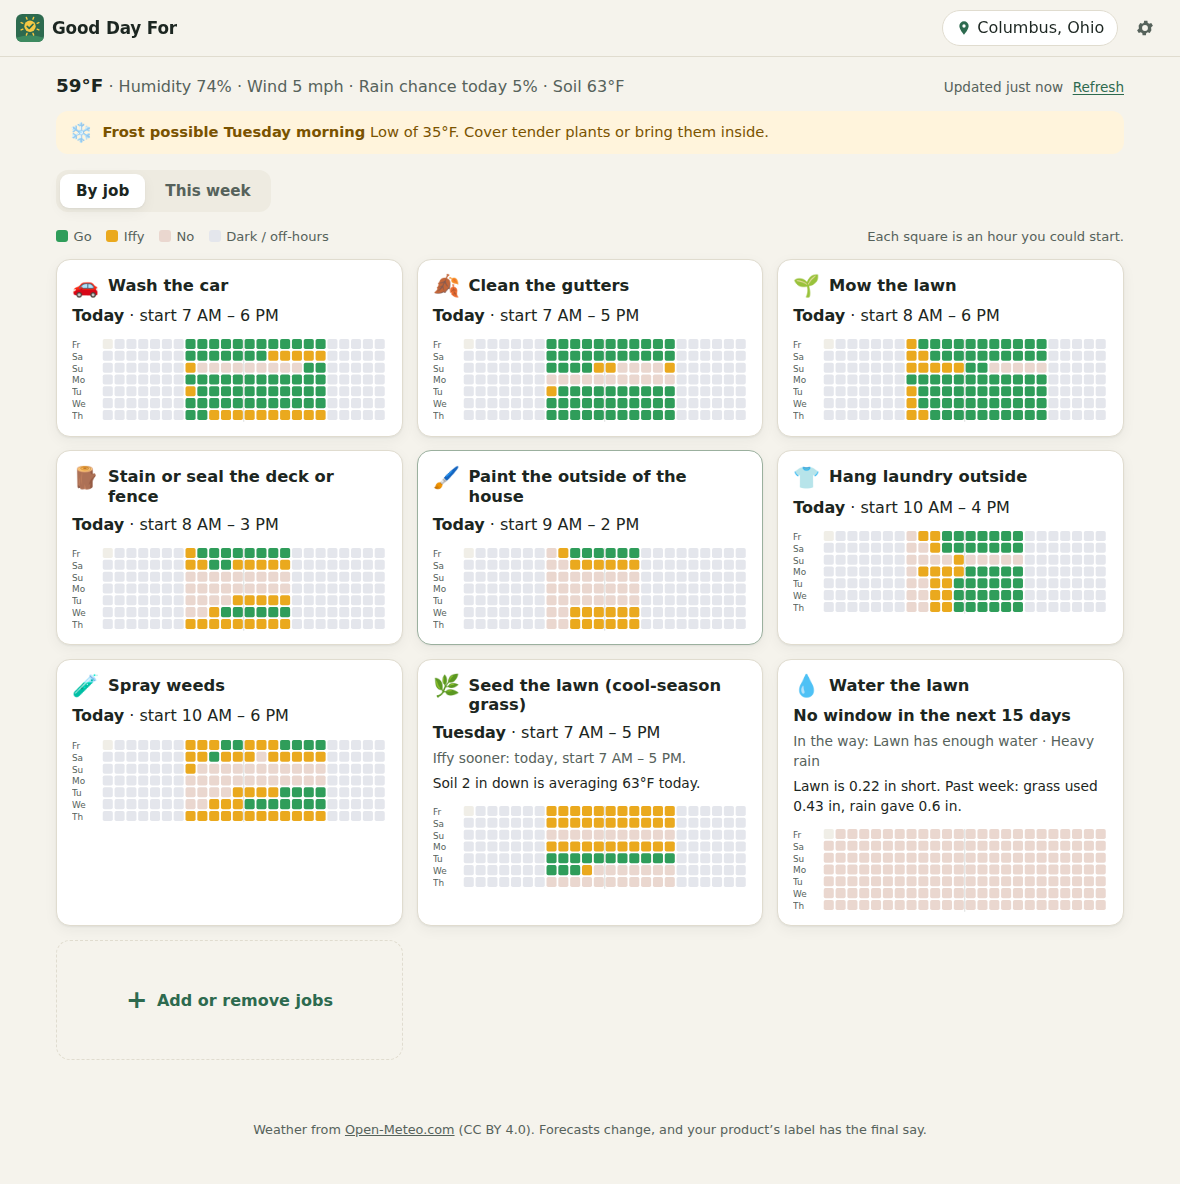
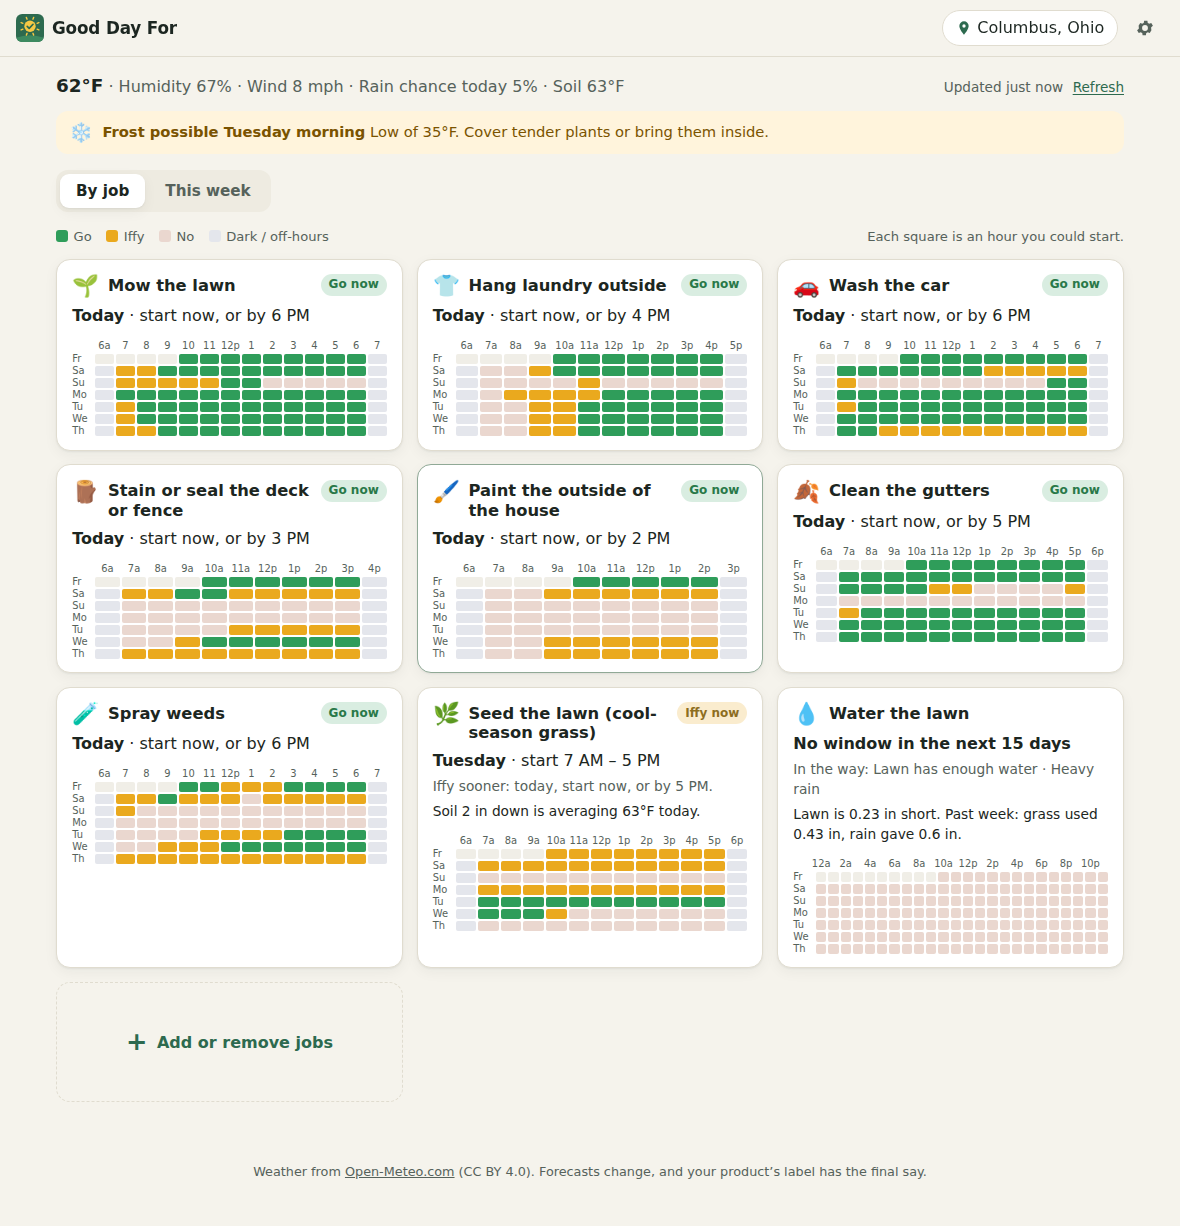
Label the hour squares
Every column in the hour-by-hour grid now says which hour it is, and
the job cards get an hour row too.

- Grids only draw the hours a job could ever start, plus one either
  side, so a daylight job drops the night and its squares get bigger.
  Jobs that can run any time keep all 24 hours.
- Labels pick the densest style that fits without colliding, measured
  after layout: "7 AM", "7a", compact "6a 7 8 … 12p 1", or every 2nd,
  3rd or 6th hour on very narrow grids.
- On the job page the hour row stays pinned under the top bar while
  scrolling through the days, and a note says which hours are shown.
- Browser test checks labels never overlap on desktop, phone and cards.

Claude-Session: https://claude.ai/code/session_01Y2EssY3TZLFak57uq2saM9

diff --git a/js/app.js b/js/app.js
@@ -35,12 +35,6 @@ function h(tag, attrs, ...kids) {
   for (const kid of kids.flat(Infinity)) if (kid != null && kid !== false) el.append(kid instanceof Node ? kid : String(kid));
   return el;
 }
-function s(tag, attrs, ...kids) {
-  const el = document.createElementNS('http://www.w3.org/2000/svg', tag);
-  for (const [k, v] of Object.entries(attrs || {})) if (v != null) el.setAttribute(k, v);
-  for (const kid of kids.flat(Infinity)) if (kid != null) el.append(kid instanceof Node ? kid : String(kid));
-  return el;
-}
 const lower = t => (t ? t[0].toLowerCase() + t.slice(1) : t);
 const persist = () => store.save(state);
 
@@ -130,6 +124,7 @@ function parseRoute() {
 
 function render() {
   fmt = makeFmt(state.units);
+  fitLabels.disconnect();
   const { view, args } = parseRoute();
   renderHeader();
   let node;
@@ -249,20 +244,78 @@ function extraLines(job) {
   return out;
 }
 
+// The hours worth drawing for a job: every hour it could ever start, plus
+// one either side. A daylight job skips the night; an any-time job gets all 24.
+function hourSpan(res) {
+  let lo = 24, hi = -1;
+  for (let i = ctx.i0; i < ctx.n; i++) {
+    const r = res[i];
+    if (r && r.cls !== 'off' && r.cls !== 'unknown') { lo = Math.min(lo, ctx.hour[i]); hi = Math.max(hi, ctx.hour[i]); }
+  }
+  if (hi < 0 || hi - lo >= 20) return [0, 23];
+  return [Math.max(0, lo - 1), Math.min(23, hi + 1)];
+}
+
+// One label per hour column. Which ones show (and long or short) depends on
+// how wide the columns turn out, which fitLabels works out after layout.
+function hourLabels(lo, hi, cls) {
+  const out = [];
+  for (let hr = lo; hr <= hi; hr++) {
+    const d = [2, 3, 6].filter(k => hr % k === 0).map(k => `d${k}`).join(' ');
+    // Compact: bare numbers, with a/p only on the first hour and at noon and midnight.
+    const num = hr === lo || hr % 12 === 0 ? fmt.shortHour(hr) : fmt.h12 ? String(hr % 12) : String(hr);
+    out.push(h('span', { class: `${cls} ${d}` },
+      h('span', { class: 'hl-long' }, fmt.hourOf(hr)),
+      h('span', { class: 'hl-short' }, fmt.shortHour(hr)),
+      h('span', { class: 'hl-num' }, num)));
+  }
+  return out;
+}
+
+// Measures the column pitch and the label text, then picks the densest
+// labelling that doesn't collide: every hour spelled out ("7 AM"), every hour
+// short ("7a"), every hour compact ("6a 7 8 … 12p 1"), or short every 2, 3 or 6.
+const measure = document.createElement('canvas').getContext('2d');
+const fitLabels = new ResizeObserver(entries => {
+  for (const { target: el } of entries) {
+    const heads = [...el.querySelectorAll('.g-h, .m-h')];
+    if (heads.length < 2) { el.dataset.fit = '1'; continue; }
+    const pitch = heads[1].getBoundingClientRect().left - heads[0].getBoundingClientRect().left;
+    if (!pitch) continue;
+    const cs = getComputedStyle(heads[0]);
+    measure.font = `${cs.fontWeight} ${cs.fontSize} ${cs.fontFamily}`;
+    // Labels sit centred over their squares, so two neighbours fit when half of
+    // each, plus a little air, fits between their centres.
+    const fits = (sel, k = 1) => {
+      const shown = heads.filter(hd => k === 1 || hd.classList.contains(`d${k}`));
+      const w = hd => measure.measureText(hd.querySelector(sel).textContent).width;
+      for (let i = 1; i < shown.length; i++) if ((w(shown[i - 1]) + w(shown[i])) / 2 + 3 > pitch * k) return false;
+      return true;
+    };
+    if (!el.classList.contains('mini') && fits('.hl-long')) el.dataset.fit = 'long';
+    else if (fits('.hl-short')) el.dataset.fit = '1';
+    else if (fits('.hl-num')) el.dataset.fit = 'num';
+    else el.dataset.fit = String([2, 3, 6].find(k => fits('.hl-short', k)) || 6);
+  }
+});
+
 function miniGrid(res) {
   const first = firstIndexByDate();
   const dates = [...first.keys()].filter(d => d >= today()).slice(0, 7);
-  const cw = 10, ch = 10, lw = 26;
-  const svg = s('svg', { class: 'mini', viewBox: `0 0 ${lw + 24 * cw} ${dates.length * ch}`, 'aria-hidden': 'true', preserveAspectRatio: 'xMinYMin meet' });
-  dates.forEach((d, row) => {
-    svg.append(s('text', { x: 0, y: row * ch + ch - 2.5, class: 'lbl' }, fmt.wd(d).slice(0, 2)));
-    for (let i = first.get(d); i < ctx.n && ctx.date[i] === d; i++) {
-      svg.append(s('rect', { x: lw + ctx.hour[i] * cw, y: row * ch, width: cw - 1.5, height: ch - 1.5, rx: 1.5, class: cellClass(res, i) }));
-    }
-  });
-  // A faint line at noon helps the eye.
-  svg.append(s('line', { x1: lw + 12 * cw - 0.75, x2: lw + 12 * cw - 0.75, y1: 0, y2: dates.length * ch, class: 'noon' }));
-  return svg;
+  const [lo, hi] = hourSpan(res);
+  const grid = h('div', { class: 'mini', 'aria-hidden': 'true', 'data-cols': hi - lo + 1, style: `--cols: ${hi - lo + 1}` },
+    h('span', { class: 'm-d' }),
+    hourLabels(lo, hi, 'm-h'),
+    dates.map(d => {
+      const cells = new Array(hi - lo + 1).fill(null);
+      for (let i = first.get(d); i < ctx.n && ctx.date[i] === d; i++) {
+        if (ctx.hour[i] >= lo && ctx.hour[i] <= hi) cells[ctx.hour[i] - lo] = i;
+      }
+      return [h('span', { class: 'm-d' }, fmt.wd(d).slice(0, 2)), cells.map(i => h('i', { class: i == null ? 'none' : cellClass(res, i) }))];
+    }),
+  );
+  fitLabels.observe(grid);
+  return grid;
 }
 
 function cellClass(res, i) {
@@ -463,9 +516,16 @@ function detailView(job, startArg) {
     }),
     h('h3', { class: 'sec' }, 'Hour by hour'),
     legend(),
+    trimmedNote(res),
     grid,
     inspector,
   );
+}
+
+function trimmedNote(res) {
+  const [lo, hi] = hourSpan(res);
+  if (lo === 0 && hi === 23) return null;
+  return h('p', { class: 'trimmed muted small' }, `Showing ${fmt.hourOf(lo)} to ${fmt.hourOf(hi)}. This job can’t start outside those hours.`);
 }
 
 function windowsList(job, wins, onPick) {
@@ -496,15 +556,19 @@ function windowsList(job, wins, onPick) {
 function bigGrid(job, res, onSelect) {
   const first = firstIndexByDate();
   const dates = [...first.keys()].filter(d => d >= today());
-  const grid = h('div', { class: 'grid', role: 'group', 'aria-label': 'Start times by day and hour. Use the arrow keys to move.' });
+  const [lo, hi] = hourSpan(res);
+  const cols = hi - lo + 1;
+  const grid = h('div', { class: 'grid', role: 'group', 'aria-label': 'Start times by day and hour. Use the arrow keys to move.', 'data-cols': cols, style: `--cols: ${cols}` });
   grid.append(h('div', { class: 'g-row g-hours', 'aria-hidden': 'true' },
     h('span', { class: 'g-day' }),
-    Array.from({ length: 24 }, (_, hr) => h('span', { class: 'g-h' }, hr % 6 === 0 ? fmt.shortHour(hr) : '')),
+    hourLabels(lo, hi, 'g-h'),
   ));
   dates.forEach((d, row) => {
     if (row === 7) grid.append(h('p', { class: 'g-far' }, 'Further out, the forecast is only a rough guide'));
-    const cells = new Array(24).fill(null);
-    for (let i = first.get(d); i < ctx.n && ctx.date[i] === d; i++) cells[ctx.hour[i]] = i;
+    const cells = new Array(cols).fill(null);
+    for (let i = first.get(d); i < ctx.n && ctx.date[i] === d; i++) {
+      if (ctx.hour[i] >= lo && ctx.hour[i] <= hi) cells[ctx.hour[i] - lo] = i;
+    }
     grid.append(h('div', { class: `g-row${row >= 7 ? ' far' : ''}` },
       h('span', { class: 'g-day' }, row === 0 ? 'Today' : `${fmt.wd(d)} ${+d.slice(8, 10)}`),
       cells.map(i => {
@@ -526,6 +590,7 @@ function bigGrid(job, res, onSelect) {
     const target = grid.querySelector(`[data-i="${selected.s + moves[e.key]}"]`);
     if (target) { target.click(); target.focus(); }
   });
+  fitLabels.observe(grid);
   return grid;
 }
 

diff --git a/css/app.css b/css/app.css
@@ -172,11 +172,21 @@ main { width: 100%; max-width: 1100px; margin: 0 auto; padding: 1rem 16px 2rem; 
 .sub { margin: 0; font-size: .86rem; color: var(--ink-2); }
 .sub.extra { color: var(--ink); }
 .bonus { color: color-mix(in srgb, var(--iffy) 55%, var(--ink)); }
-.mini { width: 100%; height: auto; margin-top: .45rem; display: block; }
-.mini rect { fill: var(--c, var(--off)); }
-.mini rect.busy { opacity: .3; }
-.mini .lbl { font-size: 7.5px; fill: var(--ink-2); }
-.mini .noon { stroke: var(--ink-2); stroke-width: .5; opacity: .35; }
+.mini { display: grid; grid-template-columns: 1.3rem repeat(var(--cols), minmax(0, 1fr)); gap: 2px; margin-top: .5rem; align-items: center; }
+.mini i { display: block; height: 10px; border-radius: 2px; background: var(--c, var(--off)); }
+.mini i.none { background: transparent; }
+.mini i.busy { opacity: .3; }
+.m-d { font-size: .62rem; color: var(--ink-2); line-height: 1; }
+.m-h { font-size: .62rem; color: var(--ink-2); white-space: nowrap; line-height: 1.2; display: flex; justify-content: center; }
+
+/* Hour labels: long ("7 AM") when the columns are roomy, else short ("7a"),
+   compact ("6a 7 8 … 12p"), or short every 2nd, 3rd or 6th hour, so they never overlap. */
+.hl-long, .hl-num { display: none; }
+[data-fit="long"] .hl-long, [data-fit="num"] .hl-num { display: inline; }
+[data-fit="long"] .hl-short, [data-fit="num"] .hl-short { display: none; }
+[data-fit="2"] :is(.m-h, .g-h):not(.d2),
+[data-fit="3"] :is(.m-h, .g-h):not(.d3),
+[data-fit="6"] :is(.m-h, .g-h):not(.d6) { visibility: hidden; }
 .card.add { align-items: center; justify-content: center; flex-direction: row; gap: .6rem; min-height: 120px; border-style: dashed; box-shadow: none; color: var(--accent); font-weight: 600; background: transparent; }
 .plus { font-size: 1.6rem; line-height: 1; }
 
@@ -227,10 +237,15 @@ main { width: 100%; max-width: 1100px; margin: 0 auto; padding: 1rem 16px 2rem; 
 .win.iffy .w-why { color: color-mix(in srgb, var(--iffy) 55%, var(--ink)); }
 
 .grid { background: var(--surface); border: 1px solid var(--line); border-radius: var(--radius); padding: .6rem .5rem .6rem .4rem; }
-.g-row { display: grid; grid-template-columns: 3.4rem repeat(24, minmax(0, 1fr)); gap: 2px; align-items: center; margin-bottom: 2px; }
+.g-row { display: grid; grid-template-columns: 3.4rem repeat(var(--cols, 24), minmax(0, 1fr)); gap: 2px; align-items: center; margin-bottom: 2px; }
 .g-row.far { opacity: .62; }
-.g-hours { margin-bottom: 4px; }
-.g-h { font-size: .68rem; color: var(--ink-2); white-space: nowrap; overflow: visible; }
+.g-hours {
+  position: sticky; top: 3.4rem; z-index: 2;
+  background: var(--surface); margin: -.6rem 0 4px; padding: .55rem 0 .3rem;
+  border-bottom: 1px solid var(--line);
+}
+.g-h { font-size: .7rem; font-weight: 600; color: var(--ink-2); white-space: nowrap; display: flex; justify-content: center; }
+.trimmed { margin: -.4rem 0 .6rem; }
 .g-day { font-size: .78rem; color: var(--ink-2); white-space: nowrap; padding-right: .35rem; text-align: right; }
 .g-far { margin: .6rem 0 .35rem 3.6rem; font-size: .75rem; color: var(--ink-2); }
 .cell { display: block; height: 22px; border-radius: 3px; border: 0; padding: 0; background: var(--c, var(--off)); cursor: pointer; position: relative; }

diff --git a/README.md b/README.md
@@ -15,9 +15,11 @@ Checking all that yourself means scrolling an hourly forecast and doing arithmet
 </p>
 
 <p align="center">
-  <img src="docs/phone-detail.png" alt="One job on a phone: the best times to start, then an hour-by-hour grid" width="300">
+  <img src="docs/phone-detail.png" alt="One job on a phone: the best times to start" width="250">
   &nbsp;
-  <img src="docs/phone-week.png" alt="This week on a phone: what each day is good for" width="300">
+  <img src="docs/phone-grid.png" alt="The hour-by-hour grid on a phone, with every hour labelled along the top" width="250">
+  &nbsp;
+  <img src="docs/phone-week.png" alt="This week on a phone: what each day is good for" width="250">
 </p>
 
 <sub>Screenshots use a made-up sample forecast.</sub>
@@ -27,6 +29,7 @@ Checking all that yourself means scrolling an hourly forecast and doing arithmet
 - **28 jobs out of the box** across lawn, garden, paint and stain, driveway and concrete, roof and gutters, and laundry and car. Each one comes with typical label and extension limits.
 - **Green, amber, grey.** Green means go. Amber means it meets the minimums but it's close to a limit, has a 30–50% chance of rain, or misses an ideal. Grey-pink means a must-have fails. Night and off-hours are shown separately, so "it's dark" doesn't look like "it's raining".
 - **Shows why.** Tap any hour and every rule is listed with what the forecast actually shows, for example "Low of 44°F Sun 6 AM" or "40% chance of rain Wed 7 AM".
+- **Every hour labeled.** The grids show only the hours a job could start (a daylight job skips the night), so the squares are bigger. The hour labels along the top stay put while you scroll.
 - **This week view.** Day by day: what you can get done today, what you can do Saturday, and what's ruled out and why.
 - **Fits your week.** Tell it you're free evenings and weekends, and 10 AM Tuesday stops counting. Jobs that run themselves, like the sprinkler, ignore this.
 - **Lawn watering by the numbers.** It keeps a running water balance. Grass uses about 80% of the day's evapotranspiration, and rain puts water back. It only says to water when the lawn is actually short and no real rain is coming.
